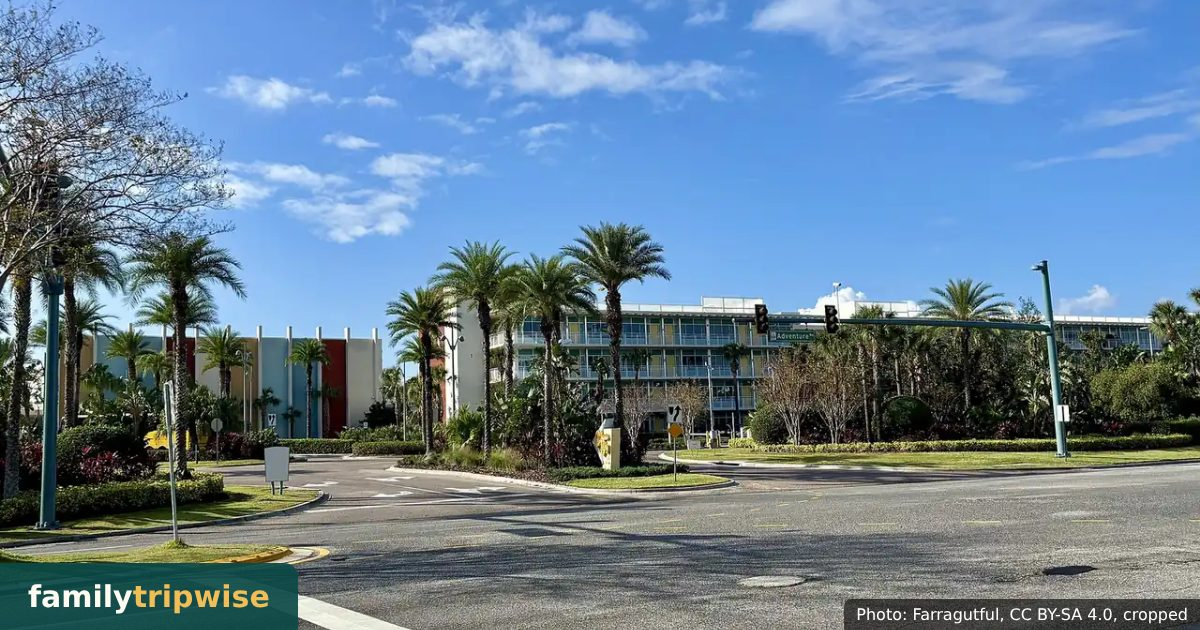
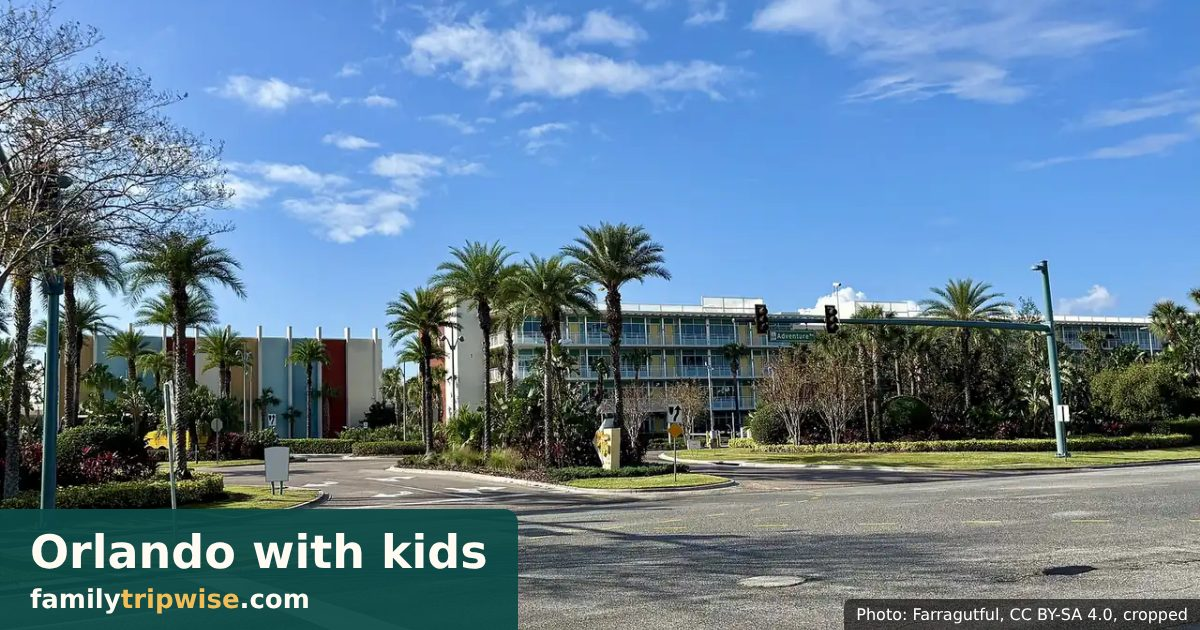
G13 persona fixes: destination photo cards labelled '<place> with kids', destination pages without a photo use it, one card per deal check, plainer deals/site card text
Claude-Session: https://claude.ai/code/session_018uWk6uZGPbEmhYkb1zd9P3

Changed region(s): [[0.0, 0.7841, 0.4317, 1.0]]

diff --git a/site/deals/atlantis-bahamas-fall-into-paradise.html b/site/deals/atlantis-bahamas-fall-into-paradise.html
@@ -11,11 +11,11 @@
     <meta property="og:title" content="Atlantis Bahamas Fall Into Paradise: up to 35% off 4+ nights, USD 250 resort credit: Family Deal Check | Family Tripwise">
     <meta property="og:description" content="Book a 4+ night Atlantis stay by November 22 for travel through January 31, 2027 and save up to 35%, with a USD 250 per-room resort credit, daily breakfast for two and kids 5 and under eating free at select venues; Thanksgiving week and mid-December to January 1 are blacked out, and a 21% charge, a">
     <meta property="og:url" content="https://familytripwise.com/deals/atlantis-bahamas-fall-into-paradise.html">
-    <meta property="og:image" content="https://familytripwise.com/images/og/deals.png">
+    <meta property="og:image" content="https://familytripwise.com/images/og/deals/v1/atlantis-bahamas-fall-into-paradise.png">
     <meta property="og:image:type" content="image/png">
     <meta property="og:image:width" content="1200">
     <meta property="og:image:height" content="630">
-    <meta property="og:image:alt" content="Family Deal Checks from Family Tripwise: what a travel deal is worth to a family of four">
+    <meta property="og:image:alt" content="Family Deal Check from Family Tripwise: the offer, the catch and the dates, checked on the official page">
     <meta name="twitter:card" content="summary_large_image">
     <link rel="stylesheet" href="../styles.css">
   </head>

diff --git a/site/deals/legoland-california-hotel-kids-tickets-39.html b/site/deals/legoland-california-hotel-kids-tickets-39.html
@@ -11,11 +11,11 @@
     <meta property="og:title" content="LEGOLAND California hotel package: kids' tickets from USD 39 a day: Family Deal Check | Family Tripwise">
     <meta property="og:description" content="Book a LEGOLAND Hotel or LEGOLAND Castle Hotel stay by November 17, 2026 for stays through January 9, 2027, with Park Hopper tickets, daily hot breakfast and early park access; advertised from USD 169 per person per night for a family of four before tax, but reservations are non-refundable and parki">
     <meta property="og:url" content="https://familytripwise.com/deals/legoland-california-hotel-kids-tickets-39.html">
-    <meta property="og:image" content="https://familytripwise.com/images/og/deals.png">
+    <meta property="og:image" content="https://familytripwise.com/images/og/deals/v1/legoland-california-hotel-kids-tickets-39.png">
     <meta property="og:image:type" content="image/png">
     <meta property="og:image:width" content="1200">
     <meta property="og:image:height" content="630">
-    <meta property="og:image:alt" content="Family Deal Checks from Family Tripwise: what a travel deal is worth to a family of four">
+    <meta property="og:image:alt" content="Family Deal Check from Family Tripwise: the offer, the catch and the dates, checked on the official page">
     <meta name="twitter:card" content="summary_large_image">
     <link rel="stylesheet" href="../styles.css">
   </head>

diff --git a/site/deals/msc-cruises-35-off-kids-sail-free.html b/site/deals/msc-cruises-35-off-kids-sail-free.html
@@ -11,11 +11,11 @@
     <meta property="og:title" content="MSC Cruises up to 35% off with kids 17 and under sailing free as 3rd and 4th guests: Family Deal Check | Family Tripwise">
     <meta property="og:description" content="MSC's sale takes up to 35% off for guests 1 and 2, and kids 17 and under sail free as 3rd and 4th guests on select sailings, but the kids still pay government fees and taxes, the sailings are not listed, and the deals page and the terms give different end dates (November 2 and November 5, 2026).">
     <meta property="og:url" content="https://familytripwise.com/deals/msc-cruises-35-off-kids-sail-free.html">
-    <meta property="og:image" content="https://familytripwise.com/images/og/deals.png">
+    <meta property="og:image" content="https://familytripwise.com/images/og/deals/v1/msc-cruises-35-off-kids-sail-free.png">
     <meta property="og:image:type" content="image/png">
     <meta property="og:image:width" content="1200">
     <meta property="og:image:height" content="630">
-    <meta property="og:image:alt" content="Family Deal Checks from Family Tripwise: what a travel deal is worth to a family of four">
+    <meta property="og:image:alt" content="Family Deal Check from Family Tripwise: the offer, the catch and the dates, checked on the official page">
     <meta name="twitter:card" content="summary_large_image">
     <link rel="stylesheet" href="../styles.css">
   </head>

diff --git a/site/deals/norwegian-free-2nd-guest-3rd-4th-free.html b/site/deals/norwegian-free-2nd-guest-3rd-4th-free.html
@@ -11,11 +11,11 @@
     <meta property="og:title" content="Norwegian Cruise Line Free 2nd Guest sale and free 3rd and 4th guests on select sailings: Family Deal Check | Family Tripwise">
     <meta property="og:description" content="A Free 2nd Guest sale runs to November 2, 2026, and 3rd and 4th guests get a free fare on select sailings, but the terms say the free 3rd and 4th guests need guests 1 and 2 paying full fare, state no child ages and do not say whether the two offers combine.">
     <meta property="og:url" content="https://familytripwise.com/deals/norwegian-free-2nd-guest-3rd-4th-free.html">
-    <meta property="og:image" content="https://familytripwise.com/images/og/deals.png">
+    <meta property="og:image" content="https://familytripwise.com/images/og/deals/v1/norwegian-free-2nd-guest-3rd-4th-free.png">
     <meta property="og:image:type" content="image/png">
     <meta property="og:image:width" content="1200">
     <meta property="og:image:height" content="630">
-    <meta property="og:image:alt" content="Family Deal Checks from Family Tripwise: what a travel deal is worth to a family of four">
+    <meta property="og:image:alt" content="Family Deal Check from Family Tripwise: the offer, the catch and the dates, checked on the official page">
     <meta name="twitter:card" content="summary_large_image">
     <link rel="stylesheet" href="../styles.css">
   </head>

diff --git a/site/deals/margaritaville-at-sea-black-friday-early-access.html b/site/deals/margaritaville-at-sea-black-friday-early-access.html
@@ -11,11 +11,11 @@
     <meta property="og:title" content="Margaritaville at Sea Black Friday Early Access: 3rd and 4th guests sail free: Family Deal Check | Family Tripwise">
     <meta property="og:description" content="65% off cruise fares and a USD 0 fare for the 3rd and 4th guests in a stateroom on select sailings, but taxes, fees and port expenses still apply to every guest and the page states no child age terms or sailing dates.">
     <meta property="og:url" content="https://familytripwise.com/deals/margaritaville-at-sea-black-friday-early-access.html">
-    <meta property="og:image" content="https://familytripwise.com/images/og/deals.png">
+    <meta property="og:image" content="https://familytripwise.com/images/og/deals/v1/margaritaville-at-sea-black-friday-early-access.png">
     <meta property="og:image:type" content="image/png">
     <meta property="og:image:width" content="1200">
     <meta property="og:image:height" content="630">
-    <meta property="og:image:alt" content="Family Deal Checks from Family Tripwise: what a travel deal is worth to a family of four">
+    <meta property="og:image:alt" content="Family Deal Check from Family Tripwise: the offer, the catch and the dates, checked on the official page">
     <meta name="twitter:card" content="summary_large_image">
     <link rel="stylesheet" href="../styles.css">
   </head>

diff --git a/site/deals/seaworld-orlando-2027-fun-card.html b/site/deals/seaworld-orlando-2027-fun-card.html
@@ -11,11 +11,11 @@
     <meta property="og:title" content="SeaWorld Orlando 2027 Fun Card: rest of 2026 included: Family Deal Check | Family Tripwise">
     <meta property="og:description" content="One per-person price covers unlimited SeaWorld Orlando visits for the rest of 2026 and all of 2027 (Aquatica added in the higher tier), but the offer page shows no child price, and parking and select special events are not included.">
     <meta property="og:url" content="https://familytripwise.com/deals/seaworld-orlando-2027-fun-card.html">
-    <meta property="og:image" content="https://familytripwise.com/images/og/deals.png">
+    <meta property="og:image" content="https://familytripwise.com/images/og/deals/v1/seaworld-orlando-2027-fun-card.png">
     <meta property="og:image:type" content="image/png">
     <meta property="og:image:width" content="1200">
     <meta property="og:image:height" content="630">
-    <meta property="og:image:alt" content="Family Deal Checks from Family Tripwise: what a travel deal is worth to a family of four">
+    <meta property="og:image:alt" content="Family Deal Check from Family Tripwise: the offer, the catch and the dates, checked on the official page">
     <meta name="twitter:card" content="summary_large_image">
     <link rel="stylesheet" href="../styles.css">
   </head>

diff --git a/site/deals/club-med-all-inclusive-kids-under-4.html b/site/deals/club-med-all-inclusive-kids-under-4.html
@@ -11,11 +11,11 @@
     <meta property="og:title" content="Club Med all-inclusive offer: kids under 4 stay free, up to 40% off: Family Deal Check | Family Tripwise">
     <meta property="og:description" content="Book by January 6, 2027 and travel by July 2, 2027 in the Caribbean, Canada or Mexico; only children under 4 are shown as free, and the conditions behind the asterisks were not readable on the offer page.">
     <meta property="og:url" content="https://familytripwise.com/deals/club-med-all-inclusive-kids-under-4.html">
-    <meta property="og:image" content="https://familytripwise.com/images/og/deals.png">
+    <meta property="og:image" content="https://familytripwise.com/images/og/deals/v1/club-med-all-inclusive-kids-under-4.png">
     <meta property="og:image:type" content="image/png">
     <meta property="og:image:width" content="1200">
     <meta property="og:image:height" content="630">
-    <meta property="og:image:alt" content="Family Deal Checks from Family Tripwise: what a travel deal is worth to a family of four">
+    <meta property="og:image:alt" content="Family Deal Check from Family Tripwise: the offer, the catch and the dates, checked on the official page">
     <meta name="twitter:card" content="summary_large_image">
     <link rel="stylesheet" href="../styles.css">
   </head>

diff --git a/site/deals/great-wolf-lodge-fall-flash-sale.html b/site/deals/great-wolf-lodge-fall-flash-sale.html
@@ -11,11 +11,11 @@
     <meta property="og:title" content="Great Wolf Lodge Fall Flash Sale: up to 40% off suites: Family Deal Check | Family Tripwise">
     <meta property="og:description" content="Up to 40% off the room rate for stays to February 11, 2027, priced for two guests; a family of 4 adds an extra-person fee for each extra guest, and activity passes (Wolf, Paw, Pup) are not included.">
     <meta property="og:url" content="https://familytripwise.com/deals/great-wolf-lodge-fall-flash-sale.html">
-    <meta property="og:image" content="https://familytripwise.com/images/og/deals.png">
+    <meta property="og:image" content="https://familytripwise.com/images/og/deals/v1/great-wolf-lodge-fall-flash-sale.png">
     <meta property="og:image:type" content="image/png">
     <meta property="og:image:width" content="1200">
     <meta property="og:image:height" content="630">
-    <meta property="og:image:alt" content="Family Deal Checks from Family Tripwise: what a travel deal is worth to a family of four">
+    <meta property="og:image:alt" content="Family Deal Check from Family Tripwise: the offer, the catch and the dates, checked on the official page">
     <meta name="twitter:card" content="summary_large_image">
     <link rel="stylesheet" href="../styles.css">
   </head>

diff --git a/site/deals/royal-caribbean-kids-sail-free.html b/site/deals/royal-caribbean-kids-sail-free.html
@@ -11,11 +11,11 @@
     <meta property="og:title" content="Royal Caribbean Kids Sail Free and free 3rd and 4th guests: Family Deal Check | Family Tripwise">
     <meta property="og:description" content="Kids 12 and under pay no cruise fare on select 3+ night sailings, but every guest still pays taxes, fees and port expenses, and Thanksgiving and Christmas-to-New-Year sailings are excluded.">
     <meta property="og:url" content="https://familytripwise.com/deals/royal-caribbean-kids-sail-free.html">
-    <meta property="og:image" content="https://familytripwise.com/images/og/deals.png">
+    <meta property="og:image" content="https://familytripwise.com/images/og/deals/v1/royal-caribbean-kids-sail-free.png">
     <meta property="og:image:type" content="image/png">
     <meta property="og:image:width" content="1200">
     <meta property="og:image:height" content="630">
-    <meta property="og:image:alt" content="Family Deal Checks from Family Tripwise: what a travel deal is worth to a family of four">
+    <meta property="og:image:alt" content="Family Deal Check from Family Tripwise: the offer, the catch and the dates, checked on the official page">
     <meta name="twitter:card" content="summary_large_image">
     <link rel="stylesheet" href="../styles.css">
   </head>

diff --git a/site/family-itinerary/washington-dc-with-kids.html b/site/family-itinerary/washington-dc-with-kids.html
@@ -11,11 +11,11 @@
     <meta property="og:title" content="Washington DC Itinerary With Kids: 3 Days Around Museum Hours and Rest">
     <meta property="og:description" content="A 3-day Washington DC itinerary with kids built on official museum, Zoo and Monument hours and pass rules checked October 27, 2026, with rest blocks and rain swaps.">
     <meta property="og:url" content="https://familytripwise.com/family-itinerary/washington-dc-with-kids.html">
-    <meta property="og:image" content="https://familytripwise.com/images/og/site.png">
-    <meta property="og:image:type" content="image/png">
+    <meta property="og:image" content="https://familytripwise.com/images/og/photos/washington-dc-national-mall.jpg">
+    <meta property="og:image:type" content="image/jpeg">
     <meta property="og:image:width" content="1200">
     <meta property="og:image:height" content="630">
-    <meta property="og:image:alt" content="Family Tripwise: family trip planning by city, checked against official sources">
+    <meta property="og:image:alt" content="Photo of Washington DC by Chief Photographer's Mate Johnny Bivera (Public domain)">
     <meta name="twitter:card" content="summary_large_image">
     <link rel="stylesheet" href="../styles.css">
   </head>

diff --git a/site/family-itinerary/boston-with-kids.html b/site/family-itinerary/boston-with-kids.html
@@ -11,11 +11,11 @@
     <meta property="og:title" content="Boston Itinerary With Kids: 3 Days Around Museum Hours and Rest">
     <meta property="og:description" content="A 3-day Boston itinerary with kids built on official Museum of Science, Children's Museum, Aquarium and USS Constitution hours and rules checked October 27, 2026, with rest blocks and swaps.">
     <meta property="og:url" content="https://familytripwise.com/family-itinerary/boston-with-kids.html">
-    <meta property="og:image" content="https://familytripwise.com/images/og/site.png">
-    <meta property="og:image:type" content="image/png">
+    <meta property="og:image" content="https://familytripwise.com/images/og/photos/boston-skyline.jpg">
+    <meta property="og:image:type" content="image/jpeg">
     <meta property="og:image:width" content="1200">
     <meta property="og:image:height" content="630">
-    <meta property="og:image:alt" content="Family Tripwise: family trip planning by city, checked against official sources">
+    <meta property="og:image:alt" content="Photo of Boston by Ajay Suresh (CC BY 2.0)">
     <meta name="twitter:card" content="summary_large_image">
     <link rel="stylesheet" href="../styles.css">
   </head>
